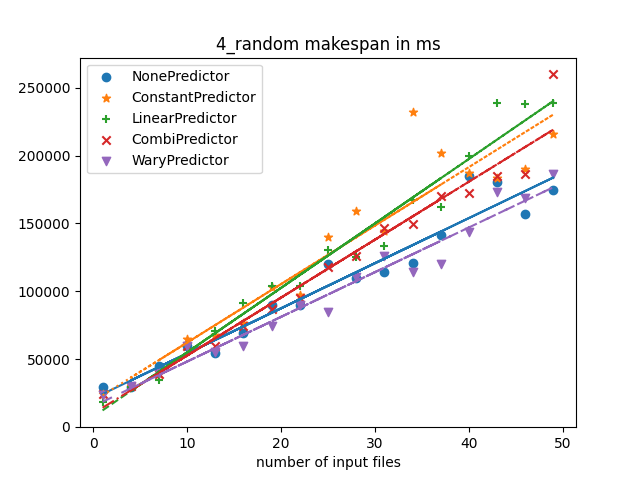
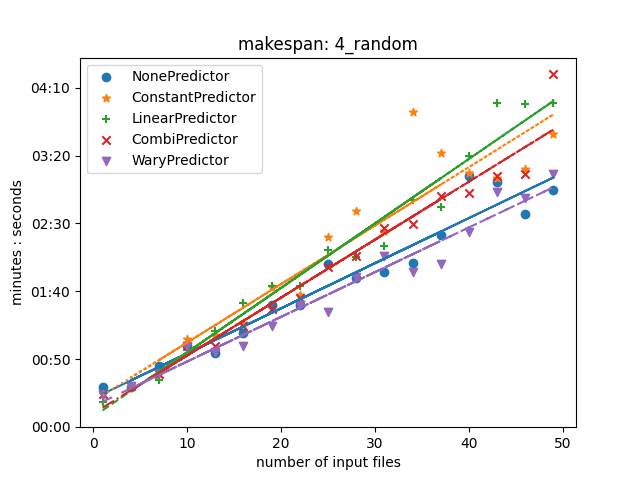
updated visuals

diff --git a/synthetic/scatter.py b/synthetic/scatter.py
@@ -6,6 +6,9 @@ import pandas as pd
 import matplotlib.pyplot as plt
 from pathlib import Path
 import numpy as np
+import matplotlib.ticker as ticker
+from matplotlib.axis import Axis
+from matplotlib.dates import DateFormatter
 
 
 def extract_data(data, search):
@@ -75,6 +78,17 @@ def analyse_folder(foldername):
         return df
 
 
+def ms_to_mmss(time):
+    seconds = int(time/1000)
+    (hours, seconds) = divmod(seconds, 3600)
+    (minutes, seconds) = divmod(seconds, 60)
+    return f"{minutes:02.0f}:{seconds:02.0f}"
+
+
+def convert_axis(x, pos):
+    return ms_to_mmss(x)
+    
+
 def main():
     cwd = Path.cwd().parts[-1]
     print("Makespan analysis -> scatterplot\n")
@@ -87,7 +101,7 @@ def main():
         df = analyse_folder( sys.argv[i] )
         dataframes.append(df)
 
-    #fig = plt.figure()
+    fig, ax = plt.subplots()
     
     markers = ['o','*','+','x', 'v']
     linestyle = ['solid','dotted','dashed','dashdot',(0,(5,5))]
@@ -99,7 +113,10 @@ def main():
         m, b = np.polyfit(dataframes[i]['Observations'], dataframes[i][cname], 1)
         plt.plot(dataframes[i]['Observations'], m*dataframes[i]['Observations']+b, linestyle=linestyle[i])
 
-    plt.title(f"{cwd} makespan in ms")
+    formatter = ticker.FuncFormatter(convert_axis)
+    Axis.set_major_formatter(ax.yaxis, formatter)
+    plt.title(f"makespan: {cwd}")
+    plt.ylabel("minutes : seconds")
     plt.xlabel("number of input files")
     plt.legend()
     #plt.show()
